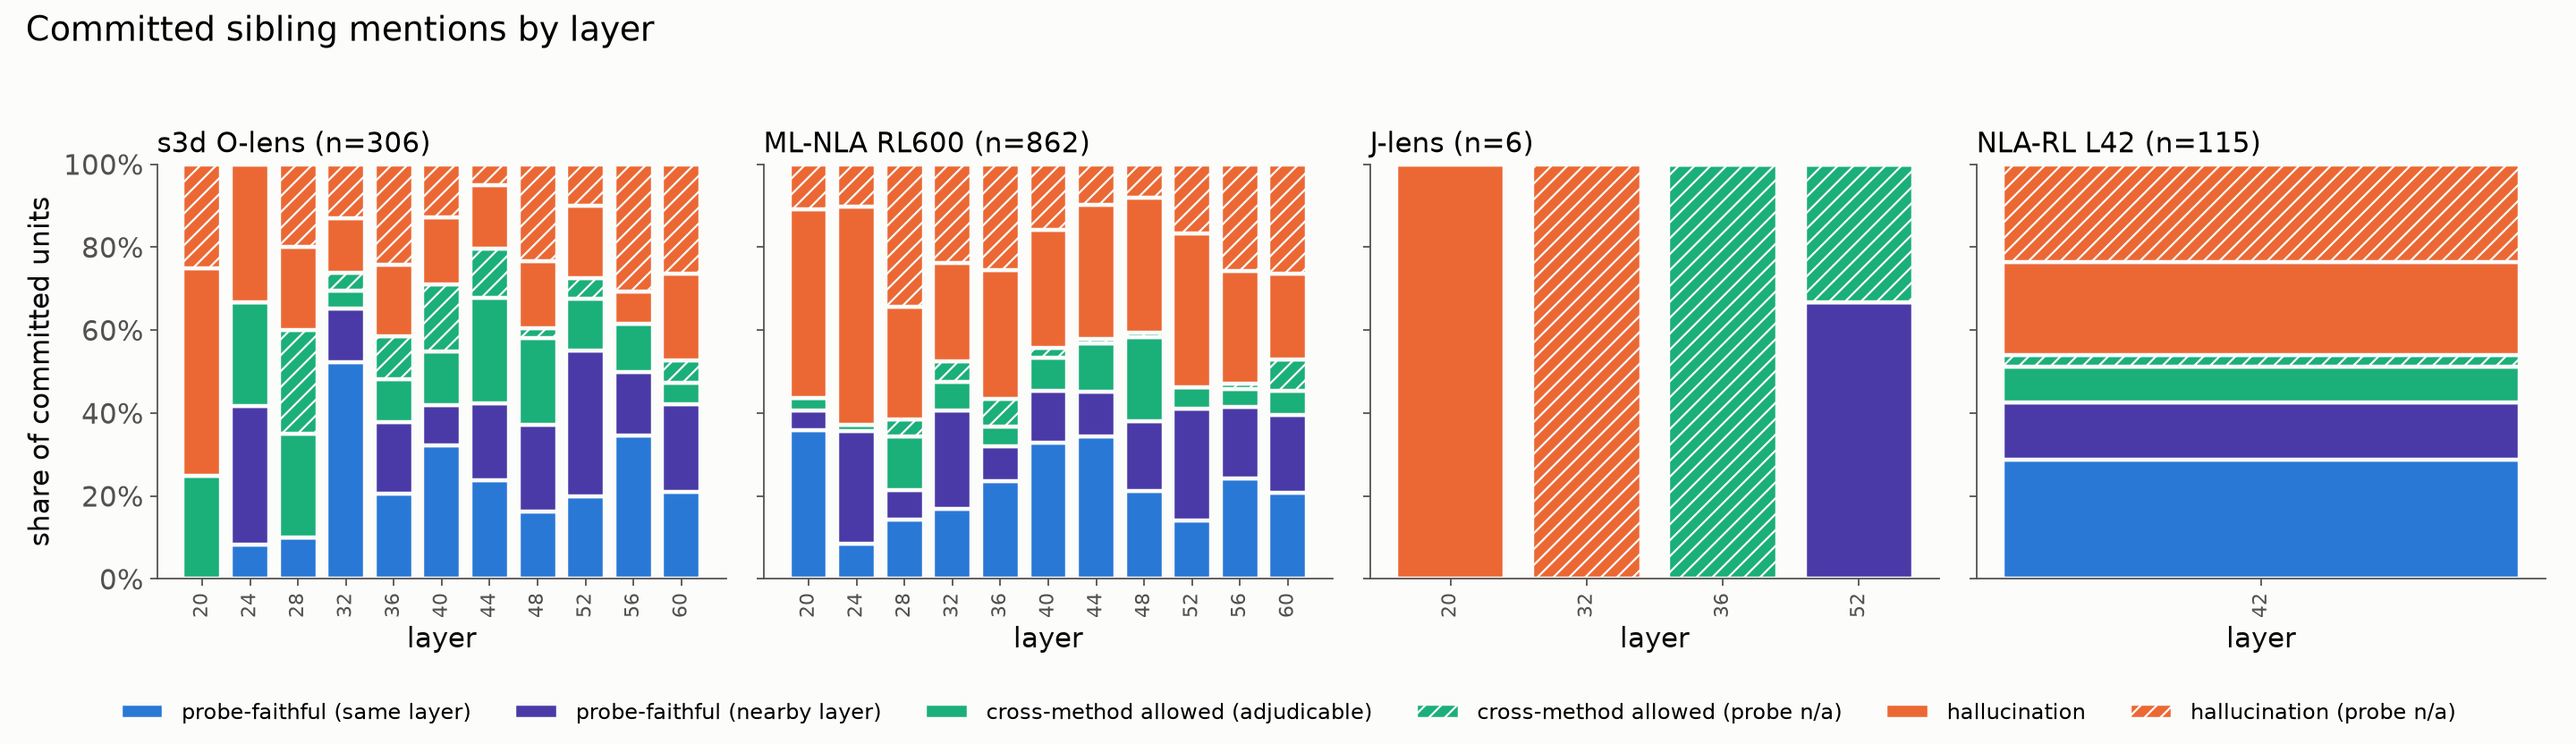
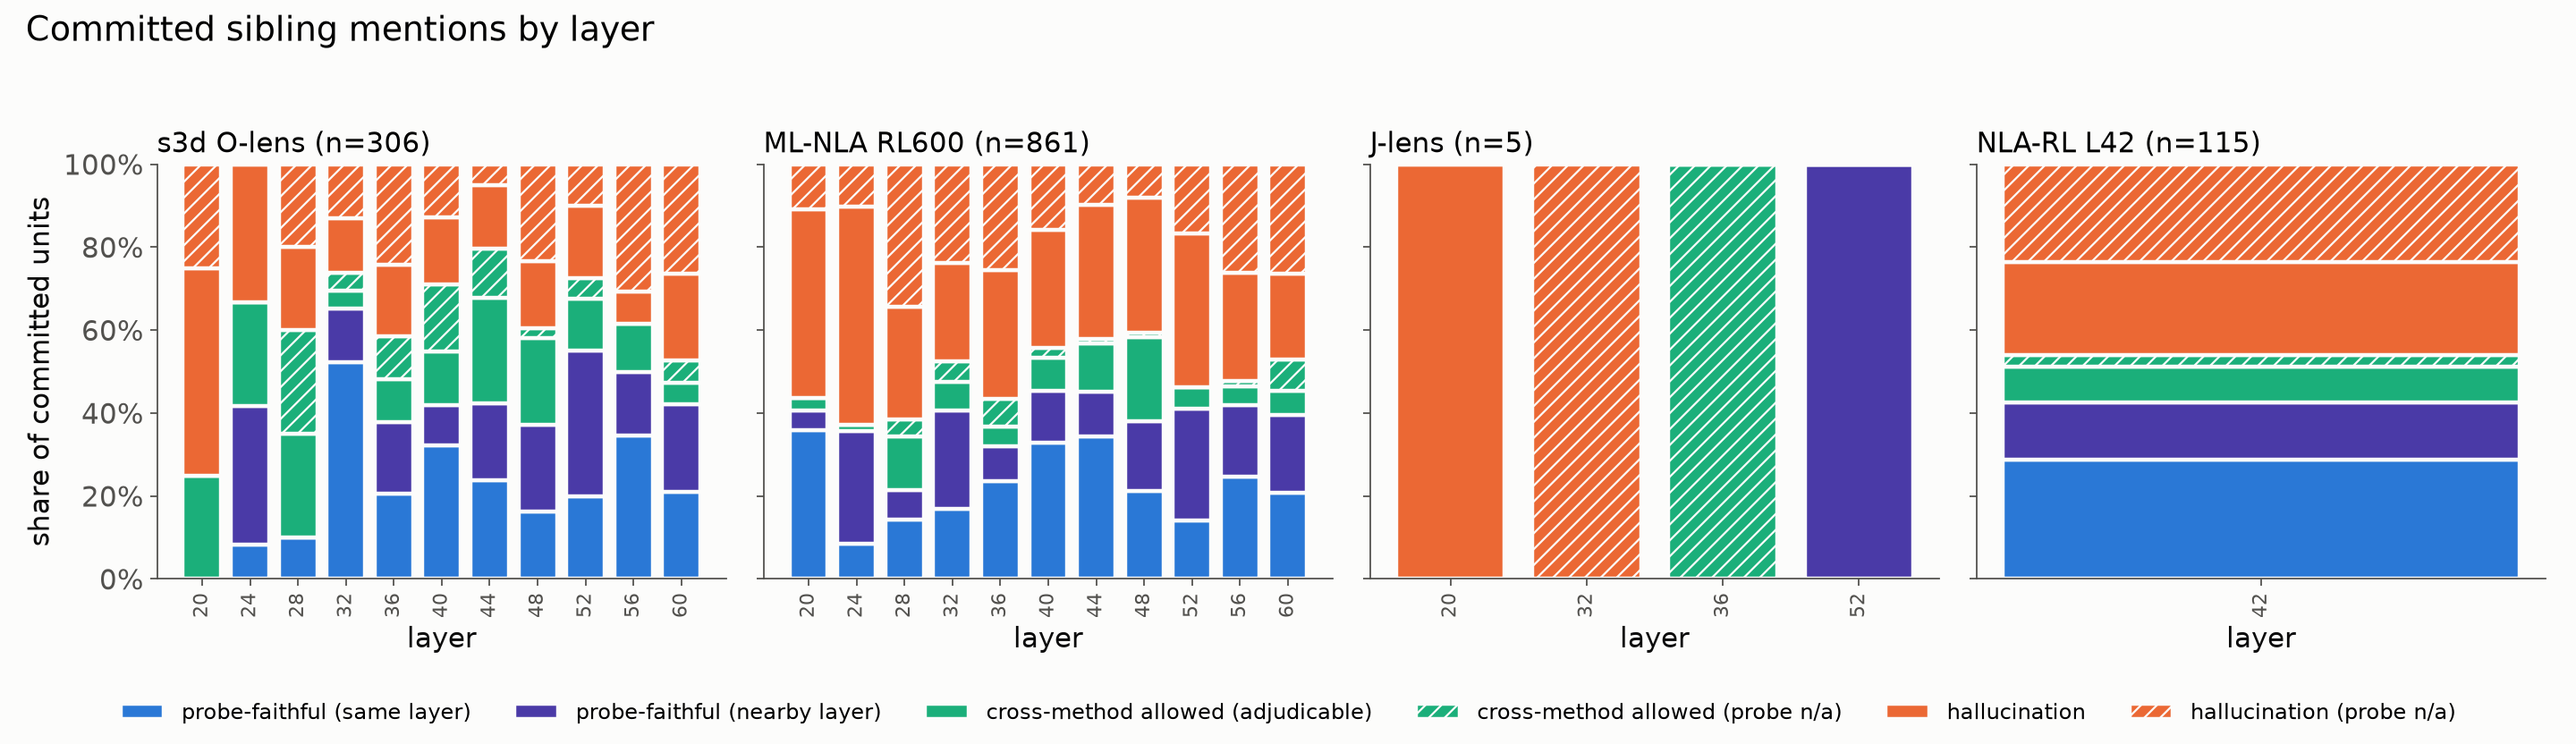
Plan 0006 review round 2: J-lens bag-only hits fail closed to not committed, gate shares in summary, results doc corrections

Changed region(s): [[0.6875, 0.2188, 0.75, 0.4062], [0.4688, 0.5, 0.5, 0.5312]]

diff --git a/src/hallucination_bench/evals/sibling_probe/um_ladder.py b/src/hallucination_bench/evals/sibling_probe/um_ladder.py
@@ -652,6 +652,19 @@ def valid_commit(r: Any, sample: Mapping[str, Any]) -> bool:
 
 def parse_commit(r: Any, sample: Mapping[str, Any]) -> dict[str, Any]:
     """Judge answer -> sample verdict. Invalid / missing -> fail closed to committed."""
+    if "tokens" in sample and not any(h.get("source") == "summary" for h in sample["hits"]):
+        if r is None or not valid_commit(r, sample) or r.get("quote_source") != "summary":
+            # plan Step 3: the bag alone cannot commit, so with no summary hit an invalid
+            # answer fails closed to NOT committed (review round 2)
+            return {
+                "committed": False,
+                "form": "bag_only",
+                "hedged": False,
+                "quote": None,
+                "quote_source": None,
+                "why": "token-bag-only hit: cannot commit (plan Step 3)",
+                "fail_closed": False,
+            }
     if r is None or not valid_commit(r, sample):
         return {
             "committed": True,

diff --git a/tests/test_um_ladder.py b/tests/test_um_ladder.py
@@ -403,3 +403,25 @@ def test_unreadable_when_too_few_distractors():
         val[(f"d{k}", 40, "a")] = 0.5
     pc = _pc(zt, val)
     assert pc.readable_share("i", 40) == 0.0
+
+
+def test_jlens_bag_only_hit_fails_closed_to_not_committed():
+    smp = {
+        "si": 0,
+        "tokens": ["Vietnamese", " food"],
+        "summary": "Korean food",
+        "hits": [{"concept": "vietnam", "alias": "Vietnamese", "rank": 0, "source": "token"}],
+    }
+    for r in (
+        None,
+        {
+            "committed": False,
+            "form": "options",
+            "hedged": False,
+            "quote": "Vietnamese",
+            "quote_source": "bag",
+            "why": "",
+        },
+    ):
+        v = U.parse_commit(r, smp)
+        assert v["committed"] is False and not v["fail_closed"]

diff --git a/scripts/sibling_probe/um_ladder.py b/scripts/sibling_probe/um_ladder.py
@@ -1359,6 +1359,8 @@ def summarize_labels(
         "hard_null_le_10pct": all(hard_ok) and len(not_eval) <= 3,
         "hard_null_not_evaluable_layers": not_eval,
         "matched_null_populated_80pct": (float(np.mean(pop)) >= 0.8) if pop else False,
+        "matched_null_populated_share": round(float(np.mean(pop)), 4) if pop else None,
+        "hard_null_by_layer": {L: out["nulls"].get(L, {}).get("unmentioned_hard") for L in lay},
         "n_pairs": len(pairs_beyond),
     }
     return out

diff --git a/docs/results/0006_um_country_ladder.md b/docs/results/0006_um_country_ladder.md
@@ -38,9 +38,9 @@ Hallucination rate = hallucination ÷ committed adjudicable units (probe-faithfu
 | method | mention units | committed | **hallucination rate** | nearby not counted as faithful | incl. probe n/a | faithful (same layer) / committed | faithful incl. nearby / committed |
 |---|---|---|---|---|---|---|---|
 | s3d O-lens | 1,882 | 306 (16%) | **0.22 [0.16, 0.29]** | 0.47 [0.40, 0.55] | 0.33 [0.24, 0.42] | 24% | 42% |
-| ML-NLA RL600 | 2,792 | 862 (31%) | **0.41 [0.31, 0.51]** | 0.60 [0.53, 0.69] | 0.51 [0.40, 0.60] | 23% | 38% |
+| ML-NLA RL600 | 2,792 | 861 (31%) | **0.41 [0.31, 0.51]** | 0.60 [0.53, 0.69] | 0.51 [0.40, 0.60] | 23% | 38% |
 | NLA-RL L42 | 336 | 115 (34%) | **0.31 [0.19, 0.44]** | 0.49 [0.34, 0.65] | 0.46 [0.33, 0.59] | 29% | 43% |
-| J-lens | 310 | 6 (2%) | n = 3 adjudicable, not interpretable | — | — | — | — |
+| J-lens | 310 | 5 (2%) | n = 3 adjudicable, not interpretable | — | — | — | — |
 
 ![labels](../../plots/sibling_probe/um_country_labels.png)
 
@@ -50,8 +50,8 @@ Hallucination rate = hallucination ÷ committed adjudicable units (probe-faithfu
   of units, and at the same layer or a neighbour for about 40%.
 - **What is left as hallucination** is 22% of committed adjudicable units for the O-lens, 41%
   for ML-NLA and 31% for NLA-RL.
-- **Nearby-layer fires matter.** Counting them as hallucinations instead roughly doubles the
-  rate (0.47 / 0.60 / 0.49).
+- **Nearby-layer fires matter.** Counting them as hallucinations instead raises the rate ×2.1
+  for s3d, ×1.5 for ML-NLA and ×1.6 for NLA-RL (0.47 / 0.60 / 0.49).
 - **Sensitivity rows** barely move it:
   - excluding fail-closed units: 0.23 / 0.41 / 0.31;
   - counting hedged single answers as not committed: 0.22 / 0.41 / 0.30;
@@ -59,11 +59,13 @@ Hallucination rate = hallucination ÷ committed adjudicable units (probe-faithfu
 - **Cross-method allowances often rest on a shared prior.** Discounting allowances where the
   agreeing method names the country for ≥ 50% of the other items raises the rate to
   0.38 / 0.48 / 0.40.
-- **J-lens is not interpretable.** The token lens almost never commits (6 units). 4 of those 6
+- **J-lens is not interpretable.** The token lens almost never commits (5 units). 3 of those 5
   are committed only because the judge's answer failed quote verification and failed closed.
+  Samples whose only hit is in the token bag now fail closed to not committed instead: plan
+  Step 3 says a bag alone cannot commit.
 - **The both-types rule cannot adjudicate.** The logistic probe passes validity for only 21% of
-  (concept, layer) pairs, leaving every item with fewer than 6 valid distractors, so every unit
-  is n/a under both types (and under type (b) alone). It is reported as not evaluable, not as a
+  (concept, layer) pairs, leaving almost every (item, layer) with fewer than 6 valid
+  distractors, so every committed unit is n/a under both types (and under type (b) alone). It is reported as not evaluable, not as a
   number.
 
 ![by layer](../../plots/sibling_probe/um_country_layers.png)
@@ -100,8 +102,8 @@ Hallucination rate = hallucination ÷ committed adjudicable units (probe-faithfu
   mentions sit where the sibling is represented more strongly than usual for that item.
 - **Under Camila's rule a "faithful" label means the sibling is represented relative to the
   distractors, not that it is unexpected given the gold.** Some pairs have a near-zero or
-  negative excess yet are mostly labelled faithful (nearby), for example South Korea → China
-  (−0.06) and South Korea → US (+0.02). There the probe fire reflects resemblance to the gold
+  negative excess yet are often labelled faithful: South Korea → US (+0.02, 14 of 25 committed
+  faithful) and South Korea → China (−0.06, 9 of 20). There the probe fire reflects resemblance to the gold
   rather than anything specific to the mention cells.
 - **Not-committed mentions fire 31%** (committed: 43% at L), another sign of a sizable shared
   baseline.
@@ -109,9 +111,12 @@ Hallucination rate = hallucination ÷ committed adjudicable units (probe-faithfu
   chosen by validity at L44 (plan §4c), and at other layers enough of them fail validity to drop
   an item below 6.
 
-## Pairs (most committed first; full table in `summary.json`)
+## Pairs (a selection of the most-committed pairs; the full table of 375 pairs is in `summary.json`)
 
 "Fire at L" and "fire incl. nearby" are both over the units adjudicable at L or a neighbour.
+Not shown among the top 18: Ireland → Scotland (20), Ukraine → US (17; 8 hallucinations),
+Costa Rica → US (16), New Zealand → Canada (16; excess −0.22, 11 cross-method), South Africa →
+Australia (15), Poland → UK (14).
 
 | gold → sibling | committed | items | fire at L | fire incl. nearby | matched excess | example committed quote |
 |---|---|---|---|---|---|---|
@@ -149,7 +154,7 @@ The pattern:
   | version | accuracy | committed precision | committed recall |
   |---|---|---|---|
   | `v1` | 0.85 [0.76, 0.91] | 0.40 | 1.00 |
-  | `v1.1` | **0.925 [0.85, 0.97]** | **0.60** | **0.75** |
+  | `v1.1` | **0.938 [0.86, 0.97]** | **0.67** | **0.75** |
 
   - v1.1 is the one allowed revision. Its examples came from a separate 60-unit dev2 set, and
     the gold disagreements were not read.
@@ -157,9 +162,11 @@ The pattern:
     the gold result is not fully blind to the decision to revise.
   - dev and dev2 also supplied the prompt's examples, so their accuracies (0.975 and 0.933) are
     optimistic.
-  - **Precision 0.60 means about 4 in 10 "committed" units may be judge errors.** That noise
+  - **Precision 0.67 means about 1 in 3 "committed" units may be judge errors.** That noise
     lands in both the faithful and the hallucination bins.
-- 17 judged samples ended fail-closed (committed) after re-tries. For several of them the judge
+  - v1.1 numbers include the J-lens bag-only fail-closed rule (round-2 review); before it, gold
+    accuracy was 0.925 and precision 0.60.
+- 15 judged samples ended fail-closed (committed) after re-tries. For several of them the judge
   had said "not committed" but its quote failed verification. Removing fail-closed-only units
   leaves the headline unchanged.
 
@@ -169,9 +176,9 @@ The pattern:
 |---|---|
 | ≥ 80% of (concept, layer) probes at L28–60 pass validity (type a) | **no**: 72% |
 | ≥ 80% of (item, layer) readable at L28–60 (≥ 6 valid distractors) | **no**: 57% |
-| hard unmentioned null ≤ 10% at every evaluable layer | **no**: 13.6% at L40 (L32, L60 not evaluable) |
-| matched null populated beyond the item for ≥ 80% of committed pairs | **no**: 50% of 375 pairs (most pairs have no unit adjudicable at its own layer) |
-| judge ≥ 85% on gold | yes: 0.925 |
+| hard unmentioned null ≤ 10% at every evaluable layer | **no**: 13.6% at L40 and 10.2% at L36 (L32, L60 not evaluable) |
+| matched null populated beyond the item for ≥ 80% of committed pairs | **no**: 48% of 375 pairs (166 pairs have no unit adjudicable at its own layer, so no matched null at all) |
+| judge ≥ 85% on gold | yes: 0.938 |
 
 **Four of five pre-registered criteria fail, so the ladder should not be extended to
 occupation as it stands.** The pair-level picture for the frequent pairs is informative, but
@@ -194,8 +201,9 @@ readability, probe validity and judge precision all need work first. The most di
   - the language-word count;
   - the per-cell gold, ± 8-layer, same-position cross-method and raw-score-(b) sensitivity rows.
 - `cross_any_layer` is recorded per unit but not summarised.
-- **Set C** was built from the first v1.1 judge pass. Re-trying its failed calls later changed
-  2 ML-NLA verdicts, but C (and the probes trained on it) was kept frozen.
+- **Set C** was built from the first v1.1 judge pass. Re-tried failed calls and the J-lens
+  bag-only rule later changed 3 ML-NLA and 3 J-lens verdicts, but C (and the probes trained on
+  it) was kept frozen.
 - **Tests missing:** the distractor-hash guard and the matched-null cell selection (the
   selection is a closure in the driver).
 
@@ -205,7 +213,7 @@ readability, probe validity and judge precision all need work first. The most di
    way (0.22 → 0.22 for s3d).
 2. **Biography subject:** a described hypothetical person ("a fictional Indigenous Canadian
    author") is **not** the user unless the sample says so. This choice moved committed
-   precision from 0.40 to 0.60.
+   precision from 0.40 to 0.60 (0.67 with the J-lens rule).
 3. **Resemblance:** a sibling that wins only by resembling the gold (zero matched excess) is
    currently **faithful**, per the rank-vs-distractors rule. Requiring a positive excess would
    reclassify pairs like South Korea → China.
